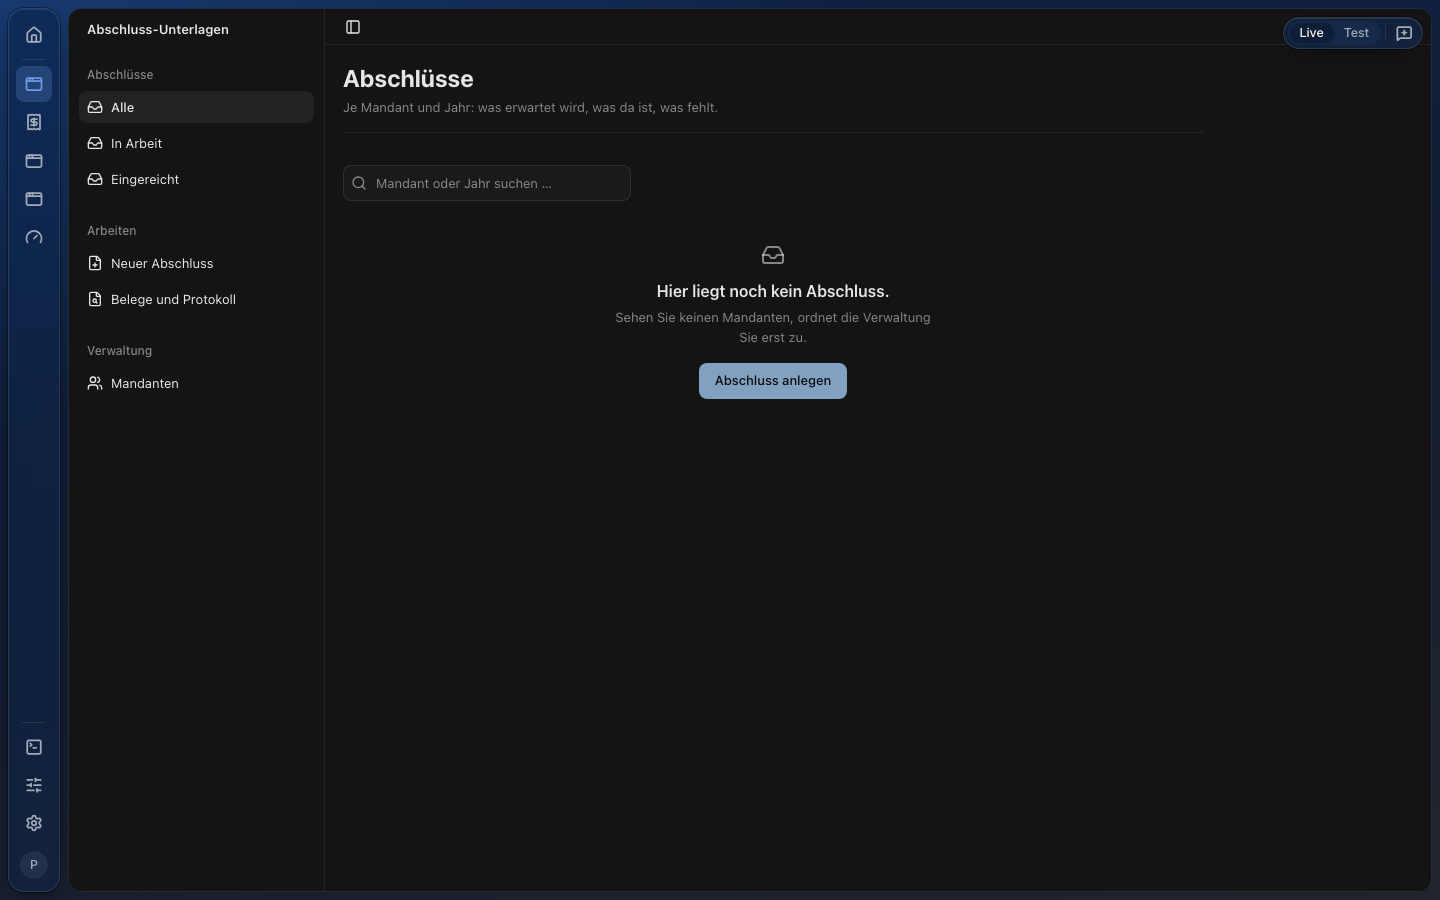
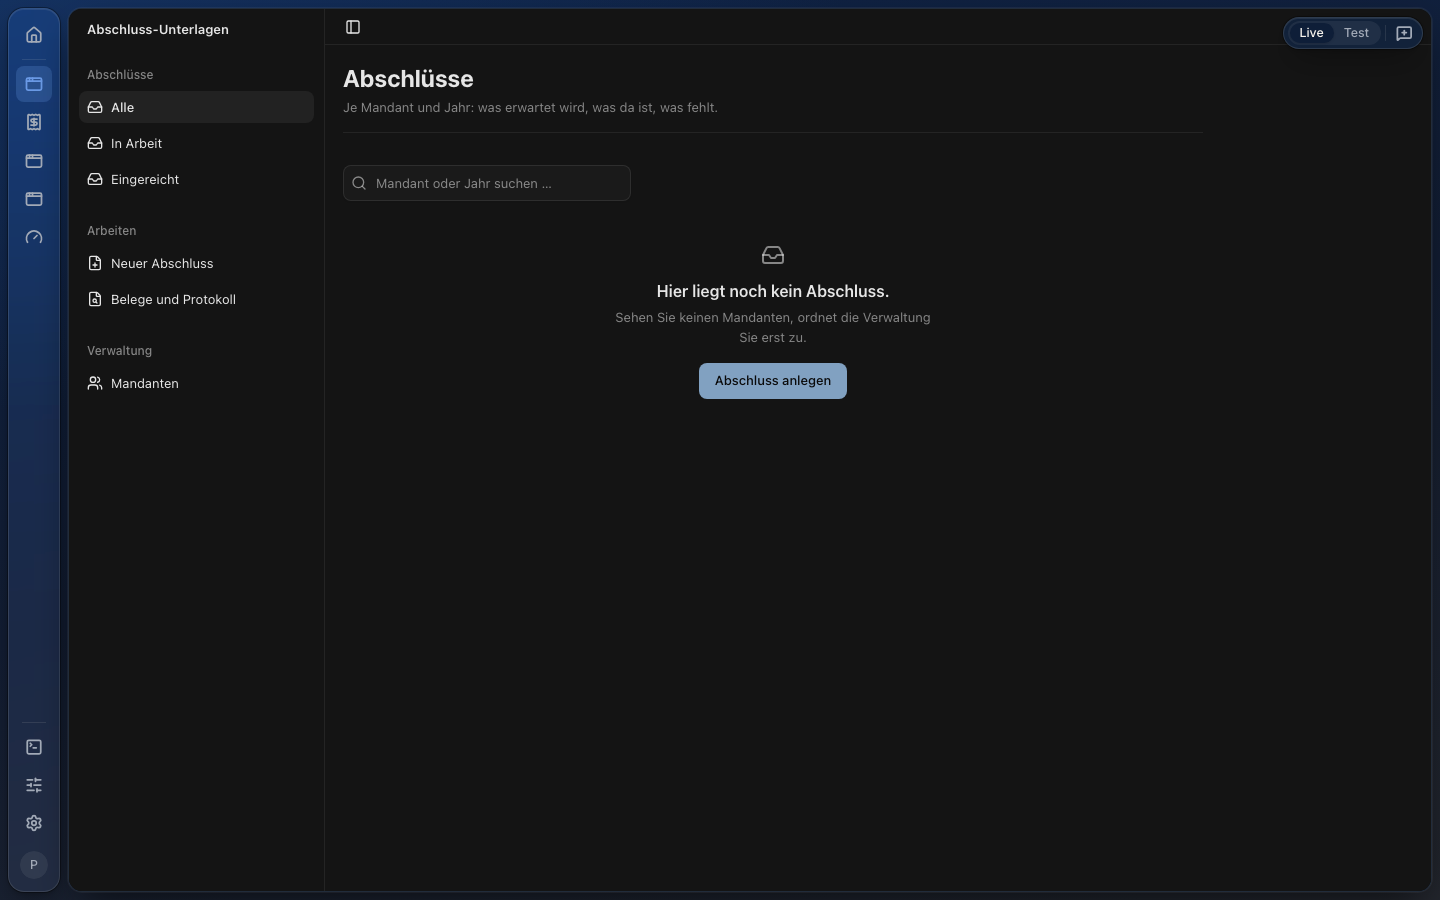
fix: Verlauf diagonal, Auswahl dunkel deutlich, Mehr mit Namen (J49, M7)
Befunde der unbeteiligten Durchsicht, Runde 3: der Verlauf läuft
diagonal, damit jeder Rand Farbe trägt; der Schein dunkel ruhiger; die
Auswahl dunkel in Tinte auf stärkerer Tönung; die Kapsel mit kleiner
Kante statt weitem Hof; ist unter Mehr etwas offen, trägt Mehr seinen
Namen. Bibliothek 5.8.3.

Changed region(s): [[0.0, 0.0, 0.0625, 0.3111]]

diff --git a/apps/dashboard-frontend/src/features/workspace/LeisteUnten.tsx b/apps/dashboard-frontend/src/features/workspace/LeisteUnten.tsx
@@ -9,7 +9,7 @@ import {
 } from '@marken/symbole';
 import { Popover, PopoverContent, PopoverTrigger, cn } from '@marken';
 import { useAuth } from '@/contexts/AuthContext';
-import { useWorkspaceStore, ansichtId } from '@/stores/workspaceStore';
+import { useWorkspaceStore, ansichtId, ansichtTitel } from '@/stores/workspaceStore';
 import { useMeineApps, zuLeiste, ordneLeiste, useAppReihenfolge } from '@/features/apps/meineApps';
 import { useOffeneFreigaben } from '@/hooks/useOffeneFreigaben';
 import { AppSymbol } from '@/components/AppSymbol';
@@ -150,18 +150,33 @@ export function LeisteUnten({ onLogout }: { onLogout: () => Promise<void> | void
       ))}
 
       <Popover open={offen} onOpenChange={setOffen}>
+        {/* Steht, was offen ist, unter „Mehr", trägt „Mehr" seinen Namen:
+            der Name steht immer am gewählten Eintrag. */}
         <PopoverTrigger
-          aria-label="Mehr"
+          aria-label={mehrAktiv ? `Mehr, offen: ${ansichtTitel(ansicht)}` : 'Mehr'}
           data-testid="leiste-mehr"
           aria-current={mehrAktiv ? 'page' : undefined}
           className={cn(
-            'flex h-[44px] min-w-[44px] flex-1 items-center justify-center rounded-xl transition-colors duration-120 ease-out motion-reduce:transition-none',
-            mehrAktiv || offen
-              ? 'bg-primary/14 text-primary dark:bg-primary/24'
-              : 'text-muted-foreground hover:text-foreground'
+            'flex h-[44px] min-w-[44px] items-center justify-center gap-1.5 rounded-xl transition-colors duration-120 ease-out motion-reduce:transition-none',
+            mehrAktiv
+              ? 'max-w-[calc(100%-236px)] min-w-0 shrink-0 bg-primary/14 px-3 text-primary dark:bg-primary/24'
+              : cn(
+                  'flex-1',
+                  offen
+                    ? 'bg-primary/14 text-primary dark:bg-primary/24'
+                    : 'text-muted-foreground hover:text-foreground'
+                )
           )}
         >
-          <Ellipsis className="size-5" aria-hidden="true" />
+          <Ellipsis className="size-5 shrink-0" aria-hidden="true" />
+          {mehrAktiv && (
+            <span
+              className="min-w-0 text-left text-xs leading-tight font-medium break-words text-foreground"
+              data-testid="leiste-mehr-name"
+            >
+              {ansichtTitel(ansicht)}
+            </span>
+          )}
         </PopoverTrigger>
         <PopoverContent
           side="top"

diff --git a/packages/marken/src/theme.css b/packages/marken/src/theme.css
@@ -333,7 +333,7 @@
   --rahmen-stufe-1: #0d2349;
   --rahmen-stufe-2: #121d33;
   --rahmen-stufe-3: #22252c;
-  --rahmen-schein: #14315f;
+  --rahmen-schein: #112a52;
 }
 
 /* -----------------------------------------------------------------------------
@@ -362,7 +362,7 @@
   --verlauf-rahmen:
     radial-gradient(120% 80% at 100% 100%, var(--rahmen-schein) 0%, transparent 62%),
     linear-gradient(
-      165deg,
+      135deg,
       var(--rahmen-stufe-1) 0%,
       var(--rahmen-stufe-2) 50%,
       var(--rahmen-stufe-3) 100%
@@ -375,6 +375,8 @@
   /* Dieses Glas ist neutral, nicht blau: hell Weiss, dunkel ein Hauch Creme
      ueber dem Verlauf. `--popover` als Grund hielt die Leiste hell im Ton
      der Flaeche und machte sie dunkel zu einer blauen Saeule. */
+  /* Glas ueber Inhalt (die Kapsel) mit kleiner Kante statt weitem Hof. */
+  --glas-schatten-klein: 0 0 0 1px rgba(30, 27, 22, 0.08), 0 1px 3px rgba(30, 27, 22, 0.1);
   --glas-grund-basis: #ffffff;
   --glas-anteil-grund: 62%;
   --glas-flaeche-grund: var(--popover);
@@ -392,13 +394,14 @@
 }
 
 [data-theme='dark'] {
+  --glas-schatten-klein: 0 0 0 1px rgba(246, 243, 237, 0.1), 0 1px 3px rgba(0, 0, 0, 0.4);
   --glas-grund-basis: #f6f3ed;
   --glas-anteil-grund: 6%;
   --schatten-flaeche: 0 0 0 1px rgba(246, 243, 237, 0.05), 0 16px 40px -12px rgba(0, 0, 0, 0.7);
   --verlauf-rahmen:
     radial-gradient(90% 70% at 0% 0%, var(--rahmen-schein) 0%, transparent 65%),
     linear-gradient(
-      165deg,
+      135deg,
       var(--rahmen-stufe-1) 0%,
       var(--rahmen-stufe-2) 50%,
       var(--rahmen-stufe-3) 100%

diff --git a/apps/dashboard-frontend/src/features/workspace/__tests__/LeisteUnten.test.tsx b/apps/dashboard-frontend/src/features/workspace/__tests__/LeisteUnten.test.tsx
@@ -82,6 +82,14 @@ describe('Leiste unten', () => {
     expect(screen.getByLabelText('Start')).not.toHaveTextContent('Start');
   });
 
+  it('ist unter „Mehr" etwas offen, trägt „Mehr" seinen Namen', async () => {
+    useWorkspaceStore.setState({ ansicht: { type: 'verwaltung' }, zuletztStand: {} });
+    zeige();
+    await screen.findByLabelText('App eins');
+    expect(screen.getByTestId('leiste-mehr')).toHaveAttribute('aria-current', 'page');
+    expect(screen.getByTestId('leiste-mehr-name')).toHaveTextContent('Verwaltung');
+  });
+
   it('„Abmelden" steht unter „Mehr"', async () => {
     zeige();
     await screen.findByLabelText('App eins');

diff --git a/apps/dashboard-frontend/src/features/apps/Kapsel.tsx b/apps/dashboard-frontend/src/features/apps/Kapsel.tsx
@@ -33,7 +33,7 @@ export function Kapsel({ appId, name, stand, staende, children }: KapselProps) {
   const umschalter = staende.includes('live') && staende.includes('test');
   return (
     <div
-      className="glas absolute top-[8px] right-[8px] z-20 flex h-[32px] items-center gap-[4px] rounded-full border px-[4px]"
+      className="glas absolute top-[8px] right-[8px] z-20 flex h-[32px] items-center gap-[4px] rounded-full border px-[4px] shadow-[var(--glas-schatten-klein)]"
       data-testid="rahmen-kapsel"
     >
       {umschalter && (

diff --git a/packages/marken/src/fassung.ts b/packages/marken/src/fassung.ts
@@ -222,4 +222,9 @@
  * zu 62 %, dunkel Creme zu 6 %), dazu `--schatten-flaeche` fuer die Flaeche
  * der Ansicht. Kein Name, keine Eigenschaft aendert sich.
  */
-export const FASSUNG = '5.8.2';
+/*
+ * 5.8.3: der Verlauf des Rahmens laeuft diagonal (135 Grad), damit jeder
+ * Rand Farbe traegt; dazu `--glas-schatten-klein` fuer Glas ueber Inhalt.
+ * Kein Name, keine Eigenschaft aendert sich.
+ */
+export const FASSUNG = '5.8.3';

diff --git a/apps/dashboard-frontend/src/features/workspace/ActivityBar.tsx b/apps/dashboard-frontend/src/features/workspace/ActivityBar.tsx
@@ -73,7 +73,7 @@ function knopfKlasse(aktiv: boolean | undefined): string {
   return cn(
     KNOPF,
     aktiv
-      ? 'bg-primary/14 text-primary dark:bg-primary/24'
+      ? 'bg-primary/14 text-primary dark:bg-primary/28 dark:text-foreground'
       : 'text-muted-foreground hover:bg-accent hover:text-foreground'
   );
 }

diff --git a/packages/marken/browser/marken.js b/packages/marken/browser/marken.js
@@ -8599,7 +8599,7 @@ function ns(y) {
     s
   ];
 }
-var es = "5.8.2", Zy = 0.25, Ly = 4, Vy = 24;
+var es = "5.8.3", Zy = 0.25, Ly = 4, Vy = 24;
 function ud(y) {
   return Math.min(Ly, Math.max(Zy, y));
 }

diff --git a/docs/development/DESIGN.md b/docs/development/DESIGN.md
@@ -414,8 +414,8 @@ Shell setzt beide über `components/Bereichsrahmen.tsx` zusammen.
 Unter 900 px schwebt die Aktivitätsleiste unten als Glas, 8 px vom Rand:
 Start, bis zu vier Apps und „Mehr“ mit den übrigen Apps, Terminal,
 Verwaltung, Einstellungen und „Abmelden“. Ungewählt stehen nur Symbole, der
-gewählte Eintrag trägt seinen Namen auf einer blau getönten Fläche; so wird
-kein Name abgeschnitten. Verwaltung und Einstellungen öffnen ihre Leiste dort
+gewählte Eintrag trägt seinen Namen auf einer blau getönten Fläche, auch
+„Mehr“, wenn dort etwas offen ist; so wird kein Name abgeschnitten. Verwaltung und Einstellungen öffnen ihre Leiste dort
 als Blatt über einen Knopf oben.
 
 **Die Rolle blendet aus, das Backend entscheidet.** Ein Mitarbeiter sieht die
